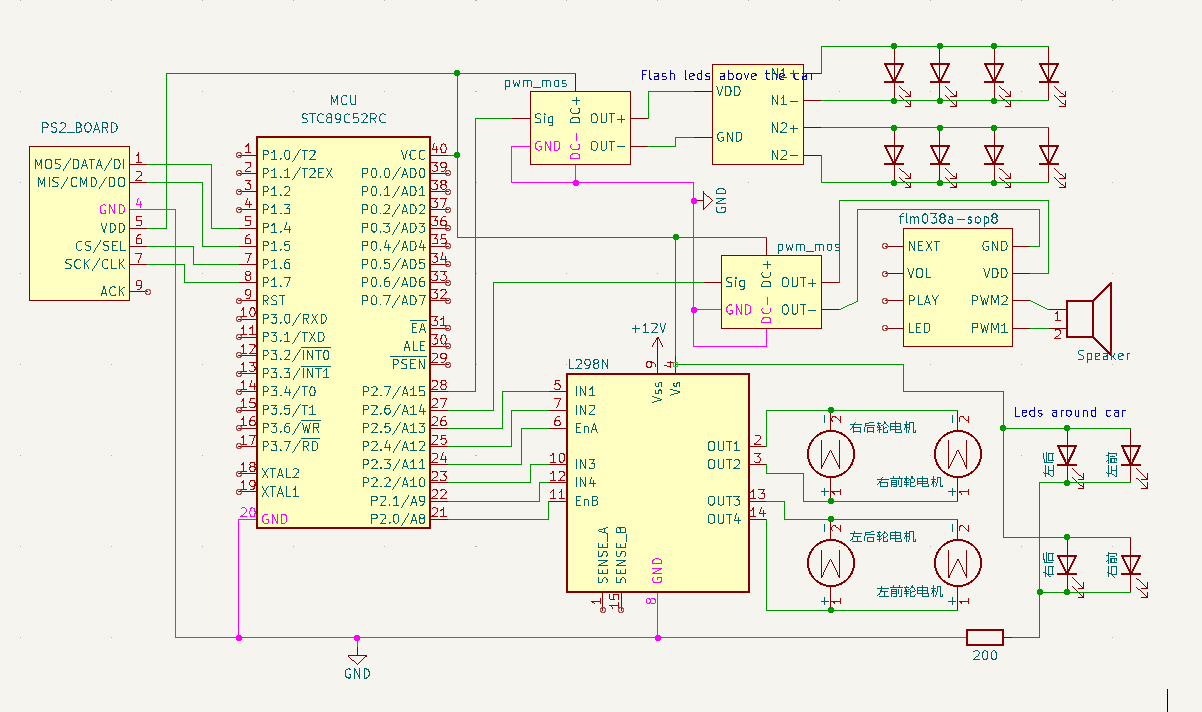
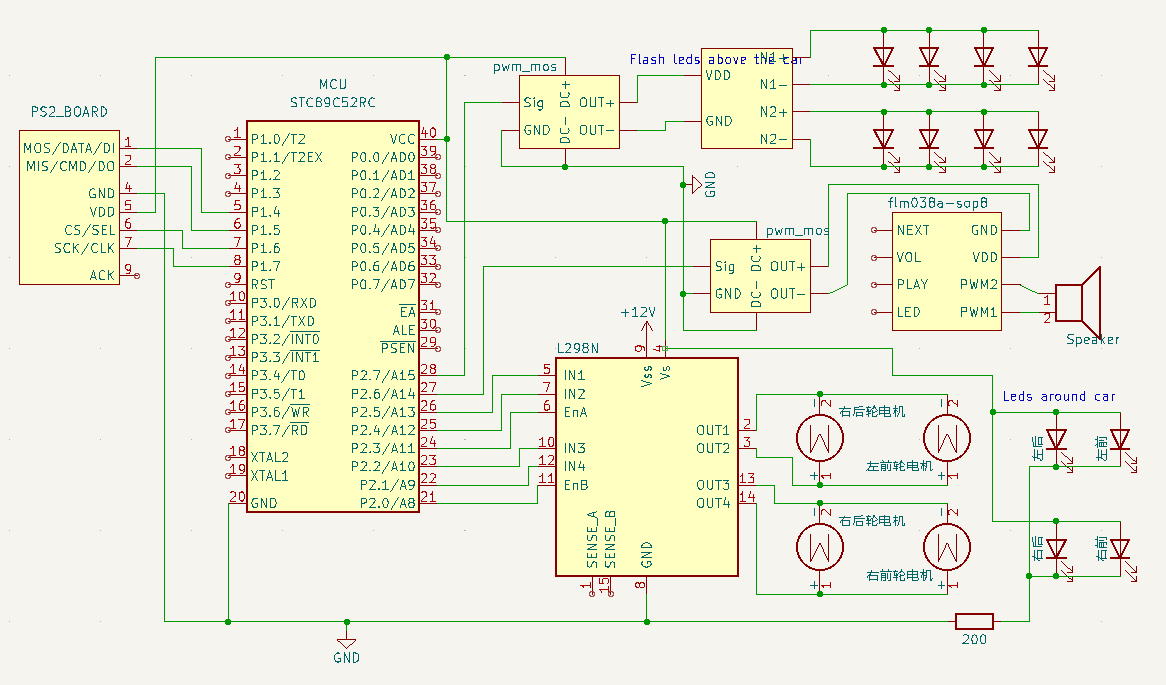
change gpio of motor driver.

Changed region(s): [[0.0, 0.0307, 0.988, 0.981], [0.741, 0.5212, 0.8336, 0.5518]]

diff --git a/software/code/inc/motor_driver.h b/software/code/inc/motor_driver.h
@@ -1,15 +1,59 @@
 /**
   ******************************************************************************
   *
-  * the switch of motor
+  * The driver of motor
   * author: coregiu
   * 
-  * P2_0 : LEFT_EN   L298N_EnB
-  * P2_1 : LEFT_MV   L298N_IN4
-  * P2_2 : LEFT_BK   L298N_IN3
-  * P2_3 : RIGHT_EN  L298N_EnA
-  * P2_4 : RIGHT_MV  L298N_IN2
-  * P2_5 : RIGHT_BK  L298N_IN1 
+  * MOVE command:
+  *     key: LEFT_TOP
+  *     monitor led: P0_0
+  *     gpio:
+  *         LEFT_EN = 1
+  *         LEFT_MV = 1
+  *         LEFT_BK = 0
+  *         RIGHT_EN = 1
+  *         RIGHT_MV = 1
+  *         RIGHT_BK = 0
+  * 
+  * BACK command:
+  *     key: LEFT_DOWN
+  *     monitor led: P0_1
+  *     gpio:
+  *         LEFT_EN = 1
+  *         LEFT_MV = 0
+  *         LEFT_BK = 1
+  *         RIGHT_EN = 1
+  *         RIGHT_MV = 0
+  *         RIGHT_BK = 1
+  * 
+  * TURN LEFT command:
+  *     key: LEFT_LEFT
+  *     monitor led: P0_2
+  *     gpio:
+  *         LEFT_EN = 0
+  *         LEFT_MV = 0
+  *         LEFT_BK = 0
+  *         RIGHT_EN = 1
+  *         RIGHT_MV = 1
+  *         RIGHT_BK = 0
+  * 
+  * TURN RIGHT command:
+  *     key: LEFT_RIGHT
+  *     monitor led: P0_3
+  *     gpio:
+  *         LEFT_EN = 1
+  *         LEFT_MV = 1
+  *         LEFT_BK = 0
+  *         RIGHT_EN = 0
+  *         RIGHT_MV = 0
+  *         RIGHT_BK = 0
+  * 
+  * P2_0 : RIGHT_EN  L298N_EnA
+  * P2_1 : RIGHT_MV  L298N_IN2
+  * P2_2 : RIGHT_BK  L298N_IN1 
+  * P2_3 : LEFT_EN   L298N_EnB
+  * P2_4 : LEFT_MV   L298N_IN4
+  * P2_5 : LEFT_BK   L298N_IN3
   * 
   ******************************************************************************
 **/
@@ -18,12 +62,12 @@
 
 #include <command_receiver.h>
 
-#define   LEFT_EN    P2_0
-#define   LEFT_MV    P2_1
-#define   LEFT_BK    P2_2
-#define   RIGHT_EN   P2_3
-#define   RIGHT_MV   P2_4
-#define   RIGHT_BK   P2_5
+#define   RIGHT_EN   P2_0
+#define   RIGHT_MV   P2_1
+#define   RIGHT_BK   P2_2
+#define   LEFT_EN    P2_3
+#define   LEFT_MV    P2_4
+#define   LEFT_BK    P2_5
 
 extern const struct module_command_receiver motor_driver;
 

diff --git a/software/code/src/motor_driver.c b/software/code/src/motor_driver.c
@@ -1,7 +1,7 @@
 /**
   ******************************************************************************
   *
-  * the switch of motor
+  * The driver of motor
   * author: coregiu
   * 
   * MOVE command:
@@ -48,23 +48,12 @@
   *         RIGHT_MV = 0
   *         RIGHT_BK = 0
   * 
-  * STOP command:
-  *     key: RIGHT_DOWN
-  *     monitor led: P0_7
-  *     gpio:
-  *         LEFT_EN = 0
-  *         LEFT_MV = 0
-  *         LEFT_BK = 0
-  *         RIGHT_EN = 0
-  *         RIGHT_MV = 0
-  *         RIGHT_BK = 0
-  * 
-  * P2_0 : LEFT_EN   L298N_EnB
-  * P2_1 : LEFT_MV   L298N_IN4
-  * P2_2 : LEFT_BK   L298N_IN3
-  * P2_3 : RIGHT_EN  L298N_EnA
-  * P2_4 : RIGHT_MV  L298N_IN2
-  * P2_5 : RIGHT_BK  L298N_IN1 
+  * P2_0 : RIGHT_EN  L298N_EnA
+  * P2_1 : RIGHT_MV  L298N_IN2
+  * P2_2 : RIGHT_BK  L298N_IN1 
+  * P2_3 : LEFT_EN   L298N_EnB
+  * P2_4 : LEFT_MV   L298N_IN4
+  * P2_5 : LEFT_BK   L298N_IN3
   * 
   ******************************************************************************
 **/

diff --git a/hardware/README.md b/hardware/README.md
@@ -20,12 +20,12 @@
 
 | GPIO | 连接口                        | 初始值  | 说明        |
 | ---- | ----------------------------- | ------- | ----------- |
-| P2_0 | L298N_EnB 左轮使能            | 0       |             |
-| P2_1 | L298N_IN4 左轮前进高电平      | 0       |             |
-| P2_2 | L298N_IN3 左轮后退高电平      | 0       |             |
-| P2_3 | L298N_EnA 右轮使能            | 0       |             |
-| P2_4 | L298N_IN2 右轮前进高电平      | 0       |             |
-| P2_5 | L298N_IN1 右轮后退高电平      | 0       |             |
+| P2_0 | L298N_EnB 右轮使能            | 0       |             |
+| P2_1 | L298N_IN4 右轮前进高电平      | 0       |             |
+| P2_2 | L298N_IN3 右轮后退高电平      | 0       |             |
+| P2_3 | L298N_EnA 左轮使能            | 0       |             |
+| P2_4 | L298N_IN2 左轮前进高电平      | 0       |             |
+| P2_5 | L298N_IN1 左轮后退高电平      | 0       |             |
 | P2_6 | 音乐控制PWM正信号，高电平打开 | 0       | 音乐开关    |
 | P2_7 | LED控制PWM正信号，高电平打开  | 0       | 车顶灯开关  |
 | P1_4 | PS2_D1/DATA                   | default |             |
@@ -46,7 +46,7 @@
 #### 电机驱动模块
 <img src="modules/L298N.png" style="zoom:60%;" />
 
-使用L98N电机驱动，左右轮分两组控制。分两组控制电机，左、右轮各用一组控制。
+使用L298N电机驱动，左右轮分两组控制。分两组控制电机，左、右轮各用一组控制。
 
 12V输入电压，5V输出电压为控制单板、音乐板、LED灯、PS2通信模块供电。
 
@@ -109,4 +109,3 @@
 
 
 
-# 看到这里，说明你心动了，攒一个吧，不贵，硬件成本才200元左右。拼多多是个好东西，你想要的小器件都有，而且便宜还包邮。

diff --git a/README.md b/README.md
@@ -40,6 +40,24 @@
 
 
 
+## 硬件模块及工具清单：
+
+| 模块          | 说明                                                         | 价格(元) |
+| ------------- | ------------------------------------------------------------ | -------- |
+| 51单片机      | 单片机 STC89C52RC芯片，11.0592晶振。                         | 40       |
+| 小车底盘      | 小车底盘及M3铜柱螺丝若干，底盘带4个直流电机。                | 30       |
+| ps2手柄       | 无线的那种，会带接收器。                                     | 40       |
+| L298N电机驱动 | 12V供电，同时带5V输出电压。                                  | 4        |
+| 音乐芯片      | 需要手动焊接些喇叭                                           | 10       |
+| PWM信号控制器 | 信号控制开关，一定要按他说明接线                             | 2        |
+| DIY灯组       | DIY电路包括LED灯珠/电容/电阻/三极管/PCB板等                  | 10       |
+| 电池及充电器  | 12V锂电池和12V充电器                                         | 35       |
+| 各种接线      | 各种公对公，母对母杜邦线若干，DIY铜线，漆包线，转接头，接线器等 | 10       |
+
+另外音乐芯片需要电烙铁，组装时可能需要万用表做些测试。以上东西都可以在网上买到。
+
+
+
 ## 使用的相关工具软件：
 
 #### OS： Ubuntu 20.04
@@ -79,3 +97,7 @@ ubuntu下安装： 从社区下载到本地，社区地址：https://github.com/
 - 串口调试工具： comtool
 
 安装： sudo pipe3 install comtool
+
+
+
+# 看到这里，说明你心动了，攒一个吧，不贵，硬件成本才200元左右。拼多多是个好东西，你想要的小器件都有，而且便宜还包邮。
